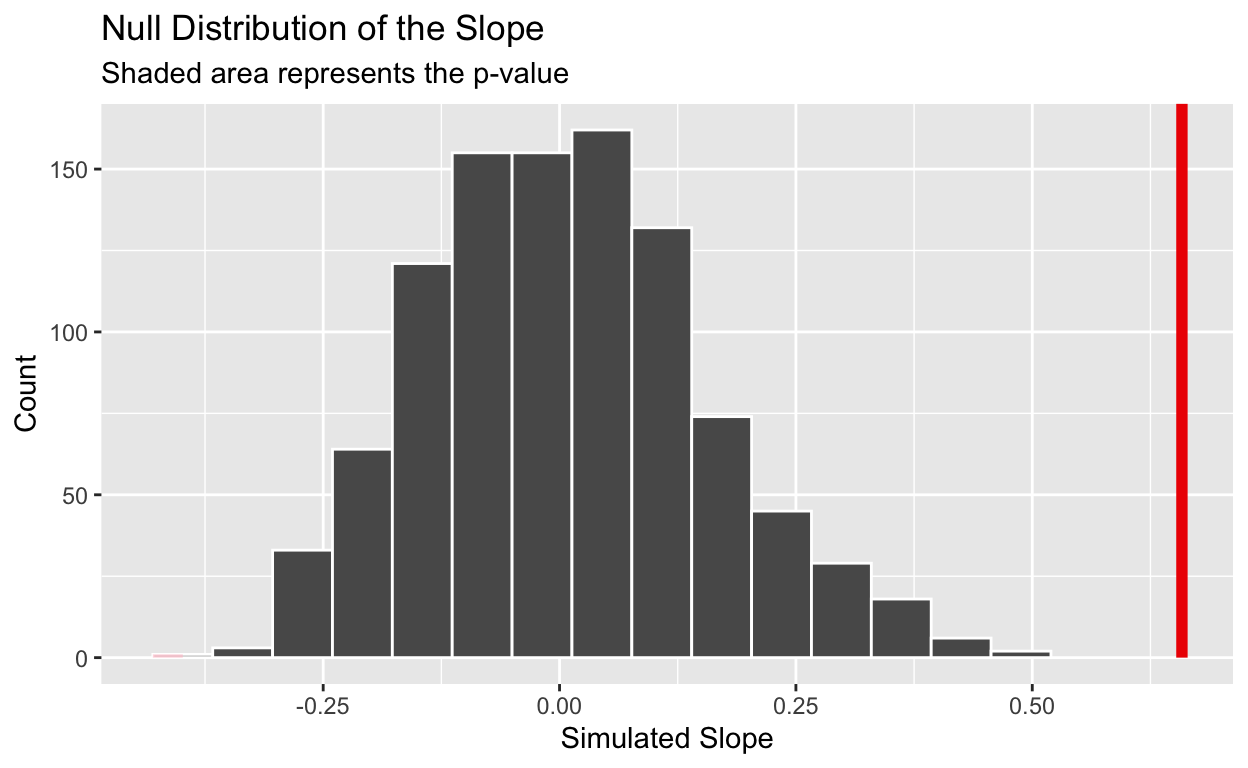
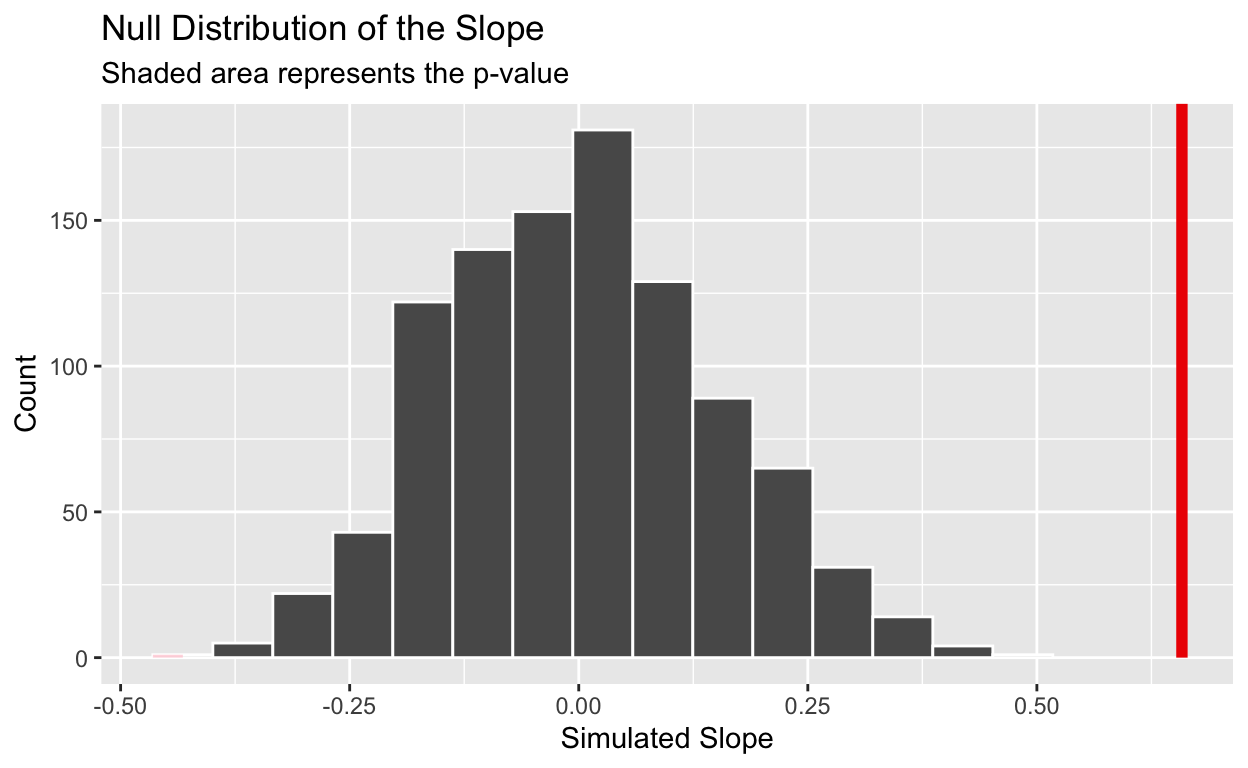
changes

diff --git a/index.html b/index.html
@@ -116,7 +116,7 @@ code span.wa { color: #5e5e5e; font-style: italic; } /* Warning */
   <!--/radix_placeholder_rmarkdown_metadata-->
   
   <script type="text/json" id="radix-resource-manifest">
-  {"type":"character","attributes":{},"value":["Data/2024_pres_by_county.xlsx","Data/2024_pres_by_county.xlsx.zip","Data/County by County Report_Federal and State Contests_Unofficial Results (1) 2.xlsx","Data/HDPulse_data_export.csv","Data/wi_2022_results_gov.xlsx","index_files/anchor-4.2.2/anchor.min.js","index_files/bowser-1.9.3/bowser.min.js","index_files/bsTable-3.3.7/bootstrapTable.js","index_files/bsTable-3.3.7/bootstrapTable.min.css","index_files/distill-2.2.21/template.v2.js","index_files/figure-html5/unnamed-chunk-10-1.png","index_files/figure-html5/unnamed-chunk-11-1.png","index_files/figure-html5/unnamed-chunk-12-1.png","index_files/figure-html5/unnamed-chunk-15-1.png","index_files/figure-html5/unnamed-chunk-17-1.png","index_files/header-attrs-2.17/header-attrs.js","index_files/header-attrs-2.30/header-attrs.js","index_files/jquery-3.6.0/jquery-3.6.0.js","index_files/jquery-3.6.0/jquery-3.6.0.min.js","index_files/jquery-3.6.0/jquery-3.6.0.min.map","index_files/kePrint-0.0.1/kePrint.js","index_files/lightable-0.0.1/lightable.css","index_files/popper-2.6.0/popper.min.js","index_files/tippy-6.2.7/tippy-bundle.umd.min.js","index_files/tippy-6.2.7/tippy-light-border.css","index_files/tippy-6.2.7/tippy.css","index_files/tippy-6.2.7/tippy.umd.min.js","index_files/webcomponents-2.0.0/webcomponents.js"]}
+  {"type":"character","attributes":{},"value":["Data/2024_pres_by_county.xlsx","Data/2024_pres_by_county.xlsx.zip","Data/County by County Report_Federal and State Contests_Unofficial Results (1) 2.xlsx","Data/HDPulse_data_export.csv","Data/wi_2022_results_gov.xlsx","index_files/anchor-4.2.2/anchor.min.js","index_files/bowser-1.9.3/bowser.min.js","index_files/bsTable-3.3.7/bootstrapTable.js","index_files/bsTable-3.3.7/bootstrapTable.min.css","index_files/distill-2.2.21/template.v2.js","index_files/figure-html5/unnamed-chunk-10-1.png","index_files/figure-html5/unnamed-chunk-11-1.png","index_files/figure-html5/unnamed-chunk-12-1.png","index_files/figure-html5/unnamed-chunk-14-1.png","index_files/figure-html5/unnamed-chunk-15-1.png","index_files/figure-html5/unnamed-chunk-16-1.png","index_files/figure-html5/unnamed-chunk-17-1.png","index_files/header-attrs-2.17/header-attrs.js","index_files/header-attrs-2.30/header-attrs.js","index_files/jquery-3.6.0/jquery-3.6.0.js","index_files/jquery-3.6.0/jquery-3.6.0.min.js","index_files/jquery-3.6.0/jquery-3.6.0.min.map","index_files/kePrint-0.0.1/kePrint.js","index_files/lightable-0.0.1/lightable.css","index_files/popper-2.6.0/popper.min.js","index_files/tippy-6.2.7/tippy-bundle.umd.min.js","index_files/tippy-6.2.7/tippy-light-border.css","index_files/tippy-6.2.7/tippy.css","index_files/tippy-6.2.7/tippy.umd.min.js","index_files/webcomponents-2.0.0/webcomponents.js"]}
   </script>
   <!--radix_placeholder_navigation_in_header-->
   <!--/radix_placeholder_navigation_in_header-->
@@ -1554,12 +1554,10 @@ code span.wa { color: #5e5e5e; font-style: italic; } /* Warning */
 <h2 id="data">Data</h2>
 <p>The data for this research is merged from two official sources to ensure accuracy. The unit of analysis in this study is the county. The <strong>dependent variable</strong>, Democratic Vote Share in the 2024 Presidential Election, is sourced from the Wisconsin Elections Commission (WEC) county-level voter turnout. The <strong>independent variable</strong>, educational attainment, is retrieved from the U.S. Census Bureau’s American Community Survey, which is a 5-year estimate via the NIH HDPulse Data Portal. The portal includes a comprehensive dataset of socioeconomic indicators across all 72 Wisconsin counties. Rather than tracking changes over time or using an experimental design, this dataset is <strong>cross-sectional</strong>, as it observes all Wisconsin counties at a single point in time to assess how educational backgrounds influence voting behavior. This is the most effective design for identifying geographic and demographic patterns at the state level.</p>
 <p>The dependent variable is measured as a percentage of total votes cast for Kamala Harris in each county, calculated as the number of votes for Harris divided by total votes cast, multiplied by 100. Alternatively, a two-party Democratic vote share variable was constructed, calculated as the proportion of votes for Harris out of the combined votes for Harris and Donald Trump. The independent variable, educational attainment, is measured as the percentage of adults aged 25 and older with a bachelor’s degree or higher in each Wisconsin county. The hypothesis will be supported if there is a positive association between educational attainment and Democratic vote share. The hypothesis will be rejected if the relationship is negative or not meaningfully different from zero.</p>
+<h4 id="wisconsin-county-level-election-and-education-data-2024">Wisconsin County-Level Election and Education Data (2024)</h4>
 <div class="layout-chunk" data-layout="l-body">
 <div style="border: 1px solid #ddd; padding: 0px; overflow-y: scroll; height:500px; overflow-x: scroll; width:100%; ">
-<table class="table table-striped table-hover table-condensed" style="color: black; margin-left: auto; margin-right: auto;">
-<caption>
-<span id="tab:unnamed-chunk-10">Table 1: </span><span id="tab:unnamed-chunk-10">Table 2: </span>Wisconsin County-Level Education and Election Data (2024)
-</caption>
+<table class="table table-striped table-hover table-condensed" style="font-size: 11px; color: black; margin-left: auto; margin-right: auto;">
 <thead>
 <tr>
 <th style="text-align:left;position: sticky; top:0; background-color: #FFFFFF;">
@@ -3467,14 +3465,14 @@ WOOD
 </div>
 <p>The figure below plots Democratic vote share against educational attainment for all 72 Wisconsin counties, with point size representing total votes cast. The fitted regression line shows a positive linear relationship, indicating a <strong>positive correlation</strong> between education and Democratic support. Thus, counties with higher proportions of college-educated residents tend to exhibit higher vote shares for Harris. Additionally, larger counties (bigger points) often appear toward the higher end of both education and Democratic vote share, which is consistent with the idea that urban areas reflect higher educational attainment and liberal voting behavior. This visualization serves as preliminary evidence in support of the hypothesis, though <strong>further analysis is necessary to determine statistical significance.</strong></p>
 <div class="layout-chunk" data-layout="l-body">
-<p><img src="index_files/figure-html5/unnamed-chunk-11-1.png" alt="" width="624" /></p>
+<p><img src="index_files/figure-html5/unnamed-chunk-10-1.png" alt="" width="624" /></p>
 </div>
 <h2 id="results">Results</h2>
 <h3 id="regression-analysis">Regression Analysis</h3>
 <p>To further examine the relationship between educational attainment and Democratic vote share, I estimate a cross-sectional linear regression using Wisconsin county-level data from the 2024 presidential election. The estimated slope coefficient of the fit linear regression model indicates how Democratic vote share changes with educational attainment.</p>
 <div class="layout-chunk" data-layout="l-body">
 <table>
-<caption><span id="tab:unnamed-chunk-14">Table 3: </span>Linear Regression: Education vs. Kamala Harris Vote Share (WI, 2024)</caption>
+<caption><span id="tab:unnamed-chunk-13">Table 1: </span>Linear Regression: Education vs. Kamala Harris Vote Share (WI, 2024)</caption>
 <colgroup>
 <col style="width: 21%" />
 <col style="width: 23%" />
@@ -3506,9 +3504,9 @@ WOOD
 <h4 id="permutation-test-and-p-value">Permutation Test and P-value</h4>
 <p>To determine if the relationship between education and voting behavior is statistically significant, a permutation test was conducted with 1,000 repetitions. The resulting null distribution of the slope represents what the relationship would look like if there was a real connection between education and Democratic vote share. The red vertical line represents the observed slope from the real Wisconsin county-level data.</p>
 <div class="layout-chunk" data-layout="l-body">
-<p><img src="index_files/figure-html5/unnamed-chunk-15-1.png" alt="" width="624" /></p>
+<p><img src="index_files/figure-html5/unnamed-chunk-14-1.png" alt="" width="624" /></p>
 <table>
-<caption><span id="tab:unnamed-chunk-15">Table 4: </span>Permutation Test Results</caption>
+<caption><span id="tab:unnamed-chunk-14">Table 2: </span>Permutation Test Results</caption>
 <thead>
 <tr class="header">
 <th style="text-align: right;">p-value</th>
@@ -3525,11 +3523,12 @@ WOOD
 <h4 id="bootstrap-confidence-interval">Bootstrap Confidence Interval</h4>
 <p>To assess the precision of the relationship between education and voting behavior, a bootstrap distribution of the slope was generated using 1,000 resamples. The following distribution shows the range of possible slope coefficients one could expect to see. The <strong>95% percent confidence interval</strong> (the blue dashed line) ranges from approximately 0.35 to 0.98.</p>
 <div class="layout-chunk" data-layout="l-body">
-<p><img src="index_files/figure-html5/unnamed-chunk-17-1.png" alt="" width="624" /></p>
+<p><img src="index_files/figure-html5/unnamed-chunk-16-1.png" alt="" width="624" /></p>
 </div>
 <p>The bootstrap distribution of the slope coefficient is centered around approximately 0.66. Because the 95% confidence interval lies entirely above zero, it can be concluded that <strong>the relationship between educational attainment and Democratic vote share is statistically significant.</strong> This suggests that a one-percentage point increase in the share of individuals over 25 with a bachelor’s degree is associated with an increase of approximately 0.66 percentage points in vote share for Kamala Harris, as the true effect likely falls within the estimated confidence interval.</p>
 <p>However, because this research utilizes cross-sectional observational data rather than an experimental design, <strong>the relationship should be interpreted as a correlation rather than a causal effect.</strong> This is because counties were not randomly assigned different levels of educational attainment, and other factors, such income and population density, may influence education levels and voting behavior. This makes it difficult to isolate the independent effect of education on Democratic vote share.</p>
 <h2 id="conclusion">Conclusion</h2>
+<p><strong>This analysis provides strong empirical support for the hypothesis that educational attainment is a significant predictor of Democratic support in Wisconsin’s 2024 presidential election.</strong> Both the permutation test (p &lt; 0.05) and the bootstrap 95% confidence interval (0.35, 0.98) confirm a positive association. This indicates that as each county’s bachelor’s degree attainment increases, so does the Democratic vote share. However, it is important to note that these results are subject to limitations and threats to interference. First, because this design is cross-sectional, it is vulnerable to omitted variable bias, where factors such as median household income, racial demographics, or population density can confound the relationship between education and voting behavior. Additionally, because this analysis relies on aggregate county-level data, it can be observed that highly educated counties lean Democratic, but it cannot technically be proven that individual degree-holders within those counties were the ones who cast votes for Kamala Harris. To improve this research, future studies should conduct individual-level surveys or exit polls to isolate education as a variable from other socioeconomic factors, thereby avoiding group-level assumptions. This data would also benefit from longitudinal data that observes multiple election cycles to understand how the effect of education on Democratic vote share has evolved over time in Wisconsin.</p>
 <div style="page-break-after: always;"></div>
 <h1 id="code-printout">Code Printout</h1>
 <div class="layout-chunk" data-layout="l-body">
@@ -3589,12 +3588,12 @@ WOOD
 <span>  <span class='fu'><a href='https://dplyr.tidyverse.org/reference/select.html'>select</a></span><span class='op'>(</span><span class='va'>county</span>, <span class='va'>`Total Votes Cast`</span>, <span class='va'>`Kamala Harris`</span>, <span class='va'>`Donald Trump`</span>, <span class='va'>harris_pct</span>, <span class='va'>trump_pct</span>, <span class='va'>dem_two_party_share</span>, <span class='va'>`Education %`</span><span class='op'>)</span> <span class='op'>|&gt;</span></span>
 <span>  <span class='fu'><a href='https://rdrr.io/pkg/knitr/man/kable.html'>kable</a></span><span class='op'>(</span></span>
 <span>    col.names <span class='op'>=</span> <span class='fu'><a href='https://rdrr.io/r/base/c.html'>c</a></span><span class='op'>(</span><span class='st'>"County"</span>, <span class='st'>"Total Votes"</span>, <span class='st'>"Harris Votes"</span>, <span class='st'>"Trump Votes"</span>, <span class='st'>"Harris (%)"</span>, <span class='st'>"Trump (%)"</span>, <span class='st'>"Harris Two-Party Share (%)"</span>, <span class='st'>"Education (%)"</span><span class='op'>)</span>,</span>
-<span>    caption <span class='op'>=</span> <span class='st'>"Wisconsin County-Level Education and Election Data (2024)"</span>,</span>
 <span>    digits <span class='op'>=</span> <span class='fl'>2</span>,</span>
 <span>    format.args <span class='op'>=</span> <span class='fu'><a href='https://rdrr.io/r/base/list.html'>list</a></span><span class='op'>(</span>big.mark <span class='op'>=</span> <span class='st'>","</span><span class='op'>)</span></span>
 <span>  <span class='op'>)</span> <span class='op'>|&gt;</span></span>
 <span>  <span class='fu'><a href='https://rdrr.io/pkg/kableExtra/man/kable_styling.html'>kable_styling</a></span><span class='op'>(</span></span>
-<span>    bootstrap_options <span class='op'>=</span> <span class='fu'><a href='https://rdrr.io/r/base/c.html'>c</a></span><span class='op'>(</span><span class='st'>"striped"</span>, <span class='st'>"hover"</span>, <span class='st'>"condensed"</span><span class='op'>)</span><span class='op'>)</span> <span class='op'>|&gt;</span></span>
+<span>    bootstrap_options <span class='op'>=</span> <span class='fu'><a href='https://rdrr.io/r/base/c.html'>c</a></span><span class='op'>(</span><span class='st'>"striped"</span>, <span class='st'>"hover"</span>, <span class='st'>"condensed"</span><span class='op'>)</span>,</span>
+<span>    font_size <span class='op'>=</span> <span class='fl'>11</span><span class='op'>)</span> <span class='op'>|&gt;</span></span>
 <span>  <span class='fu'><a href='https://rdrr.io/pkg/kableExtra/man/scroll_box.html'>scroll_box</a></span><span class='op'>(</span>width <span class='op'>=</span> <span class='st'>"100%"</span>, height <span class='op'>=</span> <span class='st'>"500px"</span><span class='op'>)</span></span>
 <span>  </span>
 <span><span class='kw'><a href='https://rdrr.io/r/base/library.html'>library</a></span><span class='op'>(</span><span class='va'><a href='https://ggplot2.tidyverse.org'>ggplot2</a></span><span class='op'>)</span></span>
